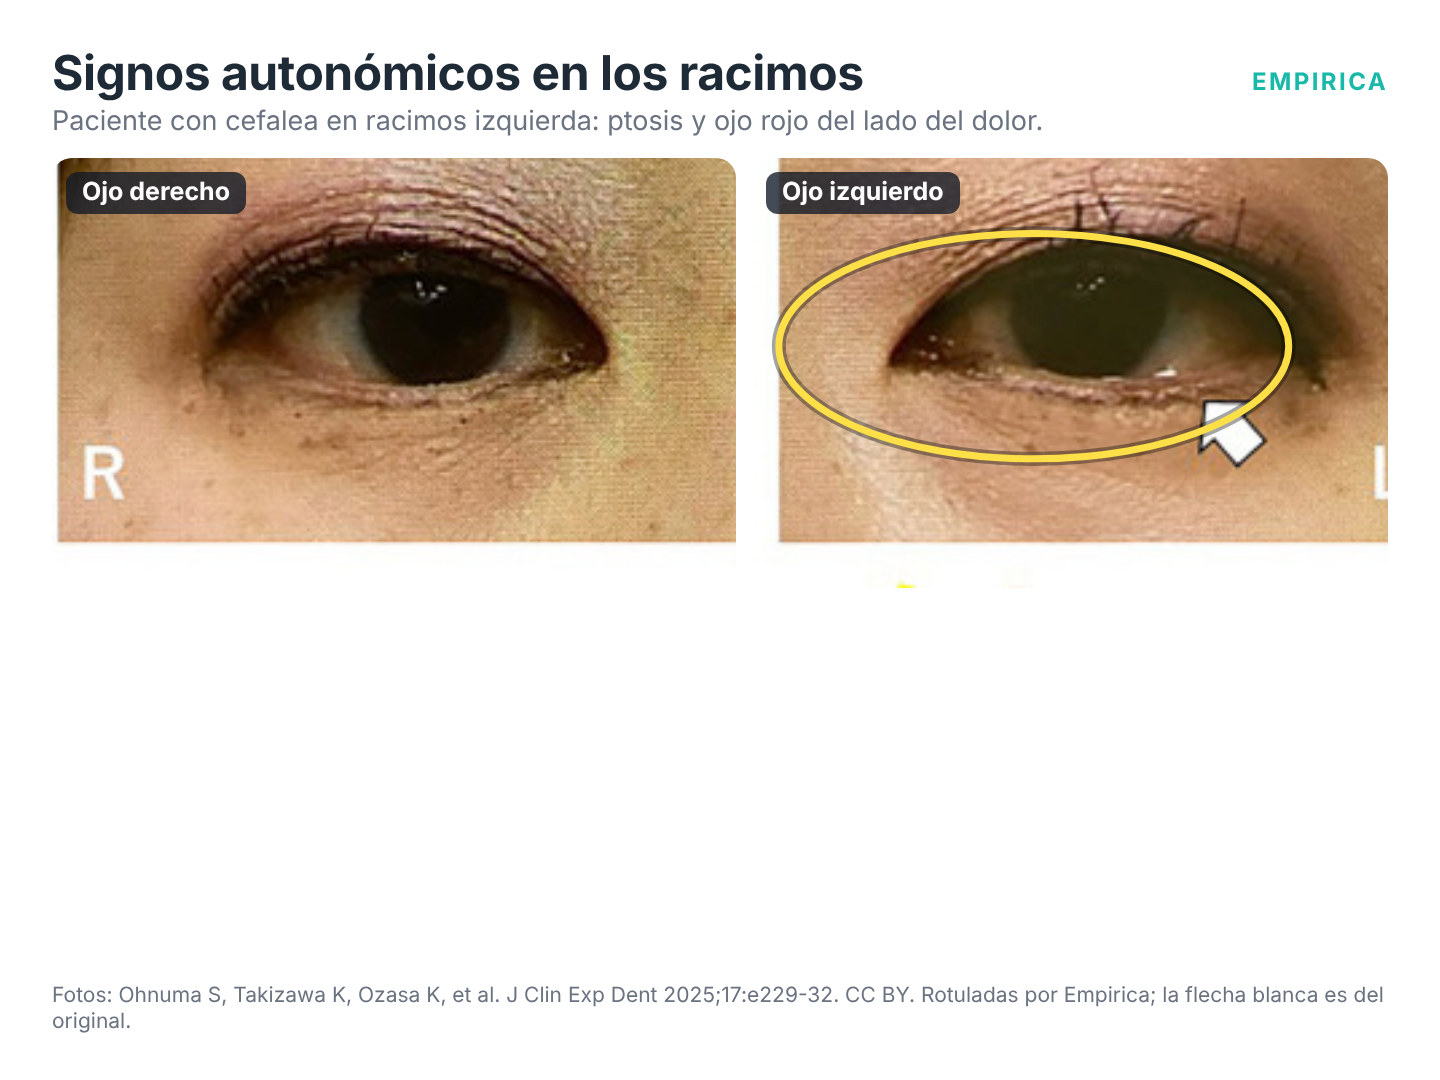
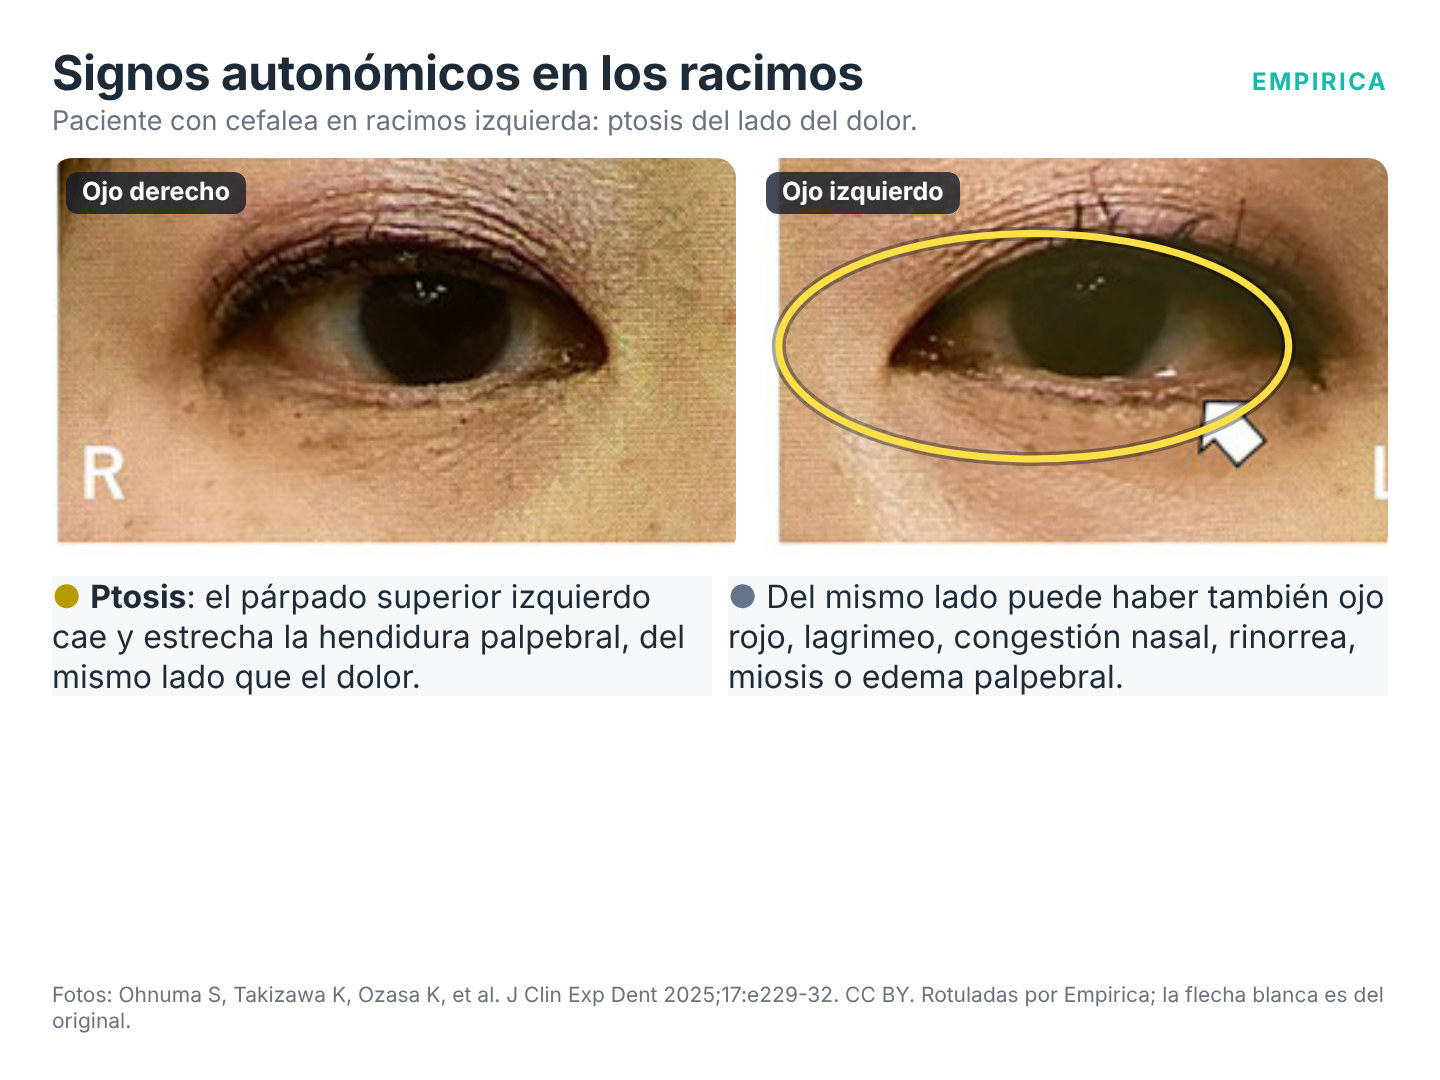
Cefalea: Ottawa ajustada a la SEN y foto de racimos sin hueco ni «ojo rojo»
Claude-Session: https://claude.ai/code/session_01BcoTKFaM5TrTtvAWSzTiKV

Changed region(s): [[0.5, 0.5194, 0.9688, 0.6417], [0.0312, 0.5194, 0.4688, 0.6417], [0.4688, 0.0917, 0.7188, 0.1222]]

diff --git a/tools/medios/figuras/cefaleassecundarias/racimos.html b/tools/medios/figuras/cefaleassecundarias/racimos.html
@@ -1,7 +1,7 @@
 <!doctype html><html lang="es"><head><meta charset="utf-8"><script src="base.js"></script><script src="foto.js"></script></head><body><script>
 fotos({
  "titulo": "Signos autonómicos en los racimos",
- "sub": "Paciente con cefalea en racimos izquierda: ptosis y ojo rojo del lado del dolor.",
+ "sub": "Paciente con cefalea en racimos izquierda: ptosis del lado del dolor.",
  "paneles": [
   {
    "src": "fuentes/racimos_ptosis.jpg",
@@ -13,7 +13,7 @@ fotos({
     50,
     25,
     255,
-    160
+    148
    ],
    "rotulo": "Ojo derecho"
   },
@@ -27,7 +27,7 @@ fotos({
     375,
     25,
     237,
-    160
+    148
    ],
    "rotulo": "Ojo izquierdo",
    "marcas": [
@@ -40,6 +40,10 @@ fotos({
     }
    ]
   }
+ ],
+ "notas": [
+  [AMARILLO, "<b>Ptosis</b>: el párpado superior izquierdo cae y estrecha la hendidura palpebral, del mismo lado que el dolor."],
+  ["#64748B", "Del mismo lado puede haber también ojo rojo, lagrimeo, congestión nasal, rinorrea, miosis o edema palpebral."]
  ],
  "fuente": "Fotos: Ohnuma S, Takizawa K, Ozasa K, et al. J Clin Exp Dent 2025;17:e229-32. CC BY. Rotuladas por Empirica; la flecha blanca es del original."
 });
